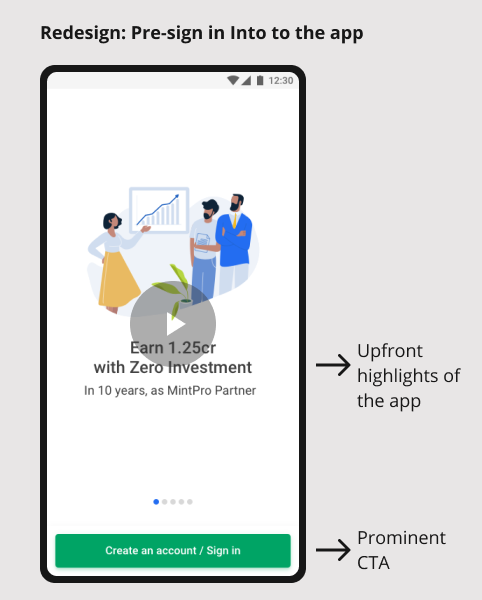
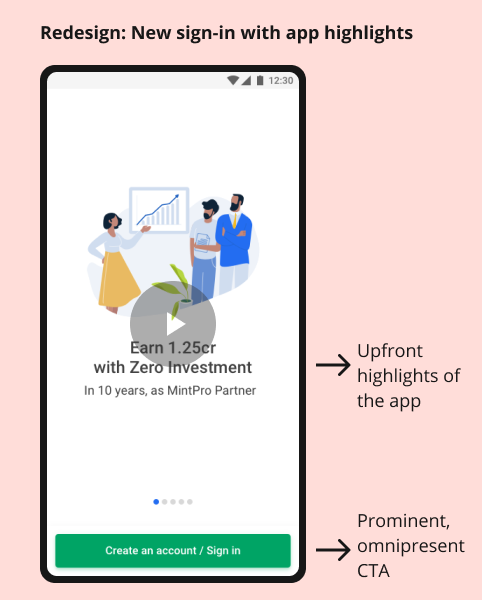
update gif to colored

Changed region(s): [[0.2801, 0.03, 0.8714, 0.09], [0.7158, 0.84, 0.9647, 0.96]]

diff --git a/_site/notestest/index.html b/_site/notestest/index.html
@@ -34,7 +34,7 @@
 
 
 
-  <meta property="article:published_time" content="2020-10-12T16:41:05+05:30">
+  <meta property="article:published_time" content="2020-10-12T16:49:00+05:30">
 
 
 
@@ -376,7 +376,7 @@
         
         <meta itemprop="description" content="Something">
         
-        <meta itemprop="datePublished" content="2020-10-12T16:41:05+05:30">
+        <meta itemprop="datePublished" content="2020-10-12T16:49:00+05:30">
         
 
         <div class="page__inner-wrap">
@@ -403,7 +403,7 @@
 
                 
                 
-                <p class="page__date"><strong><i class="fas fa-fw fa-calendar-alt" aria-hidden="true"></i> Updated:</strong> <time datetime="2020-10-12T16:41:05+05:30">October 12, 2020</time></p>
+                <p class="page__date"><strong><i class="fas fa-fw fa-calendar-alt" aria-hidden="true"></i> Updated:</strong> <time datetime="2020-10-12T16:49:00+05:30">October 12, 2020</time></p>
                 
                 
             </footer>

diff --git a/_site/visual-design.html b/_site/visual-design.html
@@ -34,7 +34,7 @@
 
 
 
-  <meta property="article:published_time" content="2020-10-12T16:41:05+05:30">
+  <meta property="article:published_time" content="2020-10-12T16:49:00+05:30">
 
 
 
@@ -253,7 +253,7 @@
         
         <meta itemprop="description" content="Deliver the vision into usable and beautiful designs, keeping in mind visual consistancy with existing products or defining a visual language for new products.">
         
-        <meta itemprop="datePublished" content="2020-10-12T16:41:05+05:30">
+        <meta itemprop="datePublished" content="2020-10-12T16:49:00+05:30">
 
         <div class="page__inner-wrap">
             

diff --git a/_site/experience-design.html b/_site/experience-design.html
@@ -34,7 +34,7 @@
 
 
 
-  <meta property="article:published_time" content="2020-10-12T16:41:05+05:30">
+  <meta property="article:published_time" content="2020-10-12T16:49:00+05:30">
 
 
 
@@ -253,7 +253,7 @@
         
         <meta itemprop="description" content="Generate ideas and translate research insights and business needs into meaningful workflows. Testing ideas with users to get feedback.">
         
-        <meta itemprop="datePublished" content="2020-10-12T16:41:05+05:30">
+        <meta itemprop="datePublished" content="2020-10-12T16:49:00+05:30">
 
         <div class="page__inner-wrap">
             

diff --git a/_site/research.html b/_site/research.html
@@ -34,7 +34,7 @@
 
 
 
-  <meta property="article:published_time" content="2020-10-12T16:41:05+05:30">
+  <meta property="article:published_time" content="2020-10-12T16:49:00+05:30">
 
 
 
@@ -253,7 +253,7 @@
         
         <meta itemprop="description" content="Gathering qualitative data, discovering user needs, understanding user behaviour and identifying delight and frustration trigers.">
         
-        <meta itemprop="datePublished" content="2020-10-12T16:41:05+05:30">
+        <meta itemprop="datePublished" content="2020-10-12T16:49:00+05:30">
 
         <div class="page__inner-wrap">
             

diff --git a/_site/improving-feature-adoption.html b/_site/improving-feature-adoption.html
@@ -34,7 +34,7 @@
 
 
 
-  <meta property="article:published_time" content="2020-10-12T16:41:05+05:30">
+  <meta property="article:published_time" content="2020-10-12T16:49:00+05:30">
 
 
 
@@ -253,7 +253,7 @@
         
         <meta itemprop="description" content="Understanding why the share feature had low adoption and then improving it.">
         
-        <meta itemprop="datePublished" content="2020-10-12T16:41:05+05:30">
+        <meta itemprop="datePublished" content="2020-10-12T16:49:00+05:30">
 
         <div class="page__inner-wrap">
             

diff --git a/_site/financial-planner.html b/_site/financial-planner.html
@@ -34,7 +34,7 @@
 
 
 
-  <meta property="article:published_time" content="2020-10-12T16:41:05+05:30">
+  <meta property="article:published_time" content="2020-10-12T16:49:00+05:30">
 
 
 
@@ -253,7 +253,7 @@
         
         <meta itemprop="description" content="Building a smart  financial planner to assist advisors with intelligence.">
         
-        <meta itemprop="datePublished" content="2020-10-12T16:41:05+05:30">
+        <meta itemprop="datePublished" content="2020-10-12T16:49:00+05:30">
 
         <div class="page__inner-wrap">
             

diff --git a/_site/insurance-business-app.html b/_site/insurance-business-app.html
@@ -34,7 +34,7 @@
 
 
 
-  <meta property="article:published_time" content="2020-10-12T16:41:05+05:30">
+  <meta property="article:published_time" content="2020-10-12T16:49:00+05:30">
 
 
 
@@ -253,7 +253,7 @@
         
         <meta itemprop="description" content="Increasing the conversion rate of new users completing self verification.">
         
-        <meta itemprop="datePublished" content="2020-10-12T16:41:05+05:30">
+        <meta itemprop="datePublished" content="2020-10-12T16:49:00+05:30">
 
         <div class="page__inner-wrap">
             

diff --git a/_site/customer-support-bot.html b/_site/customer-support-bot.html
@@ -34,7 +34,7 @@
 
 
 
-  <meta property="article:published_time" content="2020-10-12T16:41:05+05:30">
+  <meta property="article:published_time" content="2020-10-12T16:49:00+05:30">
 
 
 
@@ -253,7 +253,7 @@
         
         <meta itemprop="description" content="Building a chat bot to improve the customer support experience.">
         
-        <meta itemprop="datePublished" content="2020-10-12T16:41:05+05:30">
+        <meta itemprop="datePublished" content="2020-10-12T16:49:00+05:30">
 
         <div class="page__inner-wrap">
             
